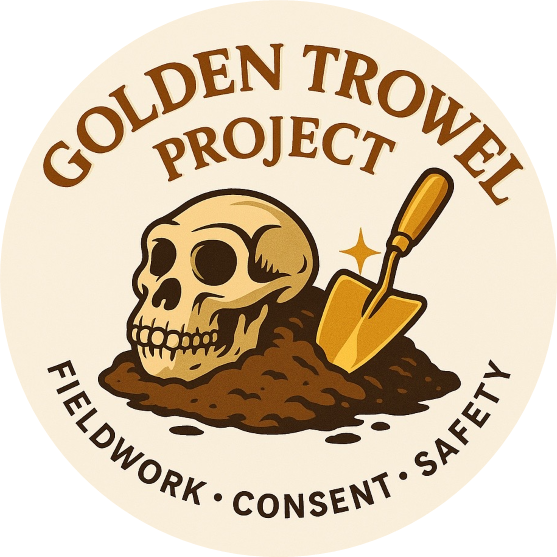
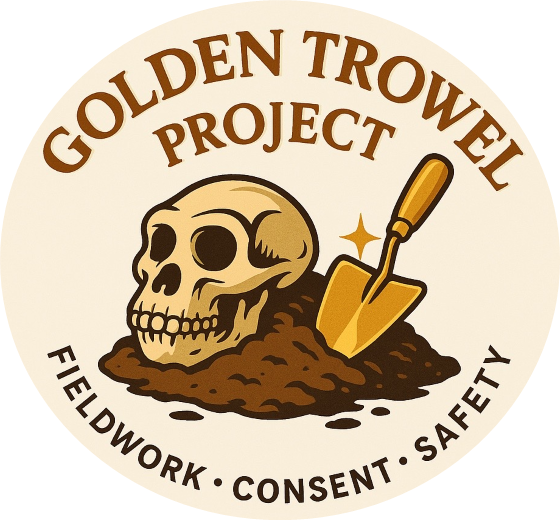
updating name

Changed region(s): [[0.061, 0.0308, 0.9461, 0.9846], [0.3052, 0.3692, 0.3357, 0.4]]

diff --git a/_layouts/default.html b/_layouts/default.html
@@ -31,7 +31,7 @@ header {
 }
 
 .header-content img {
-  width: 160px;                 /* adjust logo size */
+  width: 130px;                 /* adjust logo size */
   height: auto;
   border-radius: 12px;
 }
